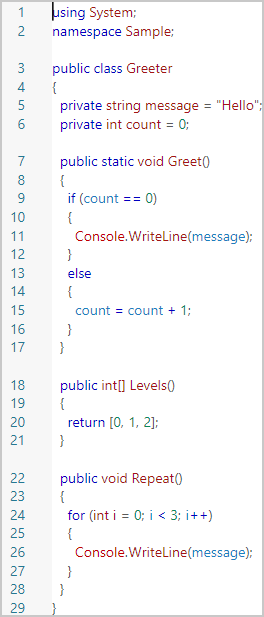
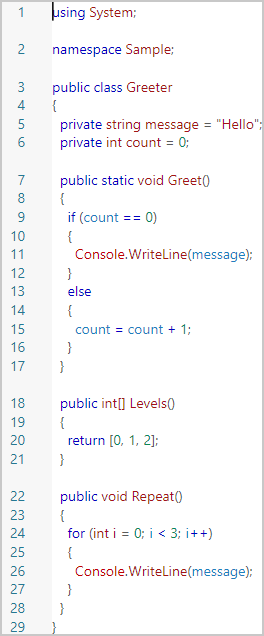
feat(csharp): put a blank line under the using block
The last place a C# file was short of the convention: the imports ran
straight into the namespace declaration. The only two positions a list
could ask for were inside it, and this gap is after the last child.

Now that the position exists, the imports take it. The gap hangs off the
when-filled block around the imports rather than off the file, so a file
without directives opens with no blank row - which is the half that would
break if it hung off the file instead. The File template also lost the
line break it used to carry after the imports: the list writes that break
now, and two writers would mean two newlines.

The test asserts both halves exactly, and asserts the drawn document
against the generated text, because the notation and the generator
declare this gap separately and drifting apart is the failure that would
not show up in either one alone.

diff --git a/tests/Projectional.Core.Tests/CSharpLanguageTests.cs b/tests/Projectional.Core.Tests/CSharpLanguageTests.cs
@@ -735,6 +735,7 @@ public sealed class CSharpLanguageTests
             """
             using System;
             using System.Collections.Generic;
+
             namespace Sample
             {
               public class Greeter
@@ -746,6 +747,78 @@ public sealed class CSharpLanguageTests
 
         Assert.Equal(Expected, LayoutSnapshot.Render(model, CSharpNotations.CreateNotations(CSharpLanguage.Concepts), width: 120));
         Assert.Equal(Expected + "\n", new Generator().Generate(model.Roots[0], CSharpTextGenerators.Generator).Text);
+    }
+
+    [Fact]
+    public void ABlankLineSeparatesTheImportsFromTheNamespace()
+    {
+        // The one gap a group boundary cannot describe: the blank line separates the last directive from the namespace
+        // declaration, not two directives from each other. It belongs to the when-filled block around the imports, so
+        // a file without them must not open with a blank row - which is the half that would break if the gap hung off
+        // the file instead of off the list. A class is in the model so nothing here is drawn as a placeholder, which
+        // keeps the comparison against the generated text exact.
+        const string Imported =
+            """
+            using System;
+            using System.Text;
+
+            namespace Sample;
+
+            public class Greeter
+            {
+              private string message;
+            }
+            """;
+
+        const string Bare =
+            """
+            namespace Sample;
+
+            public class Greeter
+            {
+              private string message;
+            }
+            """;
+
+        Assert.Equal(Imported, Document(withImports: true));
+        Assert.Equal(Bare, Document(withImports: false));
+
+        static string Document(bool withImports)
+        {
+            var model = new Project(CSharpLanguage.Concepts).NewModel("imports");
+            var file = model.NewNode(CSharpConceptKeys.File);
+
+            if (withImports)
+            {
+                foreach (var name in new[] { "System", "System.Text" })
+                {
+                    model.NewChild(file, CSharpConceptKeys.UsingsSlot, CSharpConceptKeys.Using)
+                        .Set(CSharpLanguage.NameSlot, name);
+                }
+            }
+
+            var ns = model.NewChild(file, CSharpConceptKeys.NamespaceSlot, CSharpConceptKeys.Namespace);
+            var cls = model.NewChild(ns, CSharpConceptKeys.ClassesSlot, CSharpConceptKeys.Class);
+            var field = model.NewChild(cls, CSharpConceptKeys.MembersSlot, CSharpConceptKeys.Field);
+            var fieldType = model.NewChild(field, "type", CSharpConceptKeys.TypeReference);
+
+            ns.Set(CSharpLanguage.NameSlot, "Sample");
+            ns.Set(CSharpLanguage.IsFileScopedSlot, true);
+            cls.Set(CSharpLanguage.VisibilitySlot, CSharpVisibility.Public);
+            cls.Set(CSharpLanguage.NameSlot, "Greeter");
+            field.Set(CSharpLanguage.VisibilitySlot, CSharpVisibility.Private);
+            field.Set(CSharpLanguage.NameSlot, "message");
+            fieldType.Set(CSharpLanguage.NameSlot, "string");
+
+            var drawn = LayoutSnapshot.Render(model, CSharpNotations.CreateNotations(CSharpLanguage.Concepts), width: 120);
+            var generated = new Generator().Generate(model.Roots[0], CSharpTextGenerators.Generator).Text;
+
+            // The notation and the generator declare the gap separately, so agreeing here is what keeps the two from
+            // drifting into a file that draws one blank line and writes another.
+            Assert.Equal(drawn + "\n", generated);
+
+            return drawn;
+        }
     }
 
     [Fact]

diff --git a/src/Languages/Projectional.CSharp/Notation/CSharpNotations.cs b/src/Languages/Projectional.CSharp/Notation/CSharpNotations.cs
@@ -34,12 +34,21 @@ public static class CSharpNotations
         // A file is its imports, each on its own row, then the namespace. The imports are wrapped in a when-filled
         // block so a file without them draws nothing where they would be - an empty row would push the namespace
         // down for no reason.
+        //
+        // The imports take a trailing gap, which is the one position a group boundary cannot describe: the blank line
+        // the convention wants separates the last directive from the namespace declaration rather than two of the
+        // directives from each other. It sits inside the when-filled block, so a file with no imports gets no blank
+        // row in front of its namespace.
         notations.Add(
             CSharpConceptKeys.File,
             ed => ed.Sequence(
                 ed.WhenFilledBlock(
                     CSharpConceptKeys.UsingsSlot,
-                    ed.Children(CSharpConceptKeys.UsingsSlot, string.Empty, stacked: true)),
+                    ed.Children(
+                        CSharpConceptKeys.UsingsSlot,
+                        string.Empty,
+                        stacked: true,
+                        gaps: ListGap.AfterLast)),
                 ed.Line(ed.ChildInline(CSharpConceptKeys.NamespaceSlot, "<no namespace>"))));
 
         notations.Add(CSharpConceptKeys.Using, ed => ed.Line(

diff --git a/src/Languages/Projectional.CSharp/Generation/CSharpTextGenerators.cs b/src/Languages/Projectional.CSharp/Generation/CSharpTextGenerators.cs
@@ -46,11 +46,14 @@ public static class CSharpTextGenerators
 
     private static TemplateRegistry Templates() => TemplateRegistry.Empty
         .Add(CSharpConceptKeys.File, TextTemplate.Of(
+            // The trailing break used to be written here; the list's own gap writes it now, so the two cannot
+            // disagree about whether a file's imports are followed by one newline or two.
             new WhenFilledPart(
                 CSharpConceptKeys.UsingsSlot,
-                TextTemplate.Of(
-                    new ChildrenPart(CSharpConceptKeys.UsingsSlot, TextTemplate.Of(LineBreakPart.Instance)),
-                    LineBreakPart.Instance)),
+                TextTemplate.Of(new ChildrenPart(
+                    CSharpConceptKeys.UsingsSlot,
+                    TextTemplate.Of(LineBreakPart.Instance),
+                    ListGap.AfterLast))),
             new ChildPart(CSharpConceptKeys.NamespaceSlot),
             LineBreakPart.Instance))
 

diff --git a/docs/implemented.md b/docs/implemented.md
@@ -257,9 +257,10 @@ engine produce diagnostics in volume.
 | **`as` and `null`, the two remaining operand forms** - `operand as Type` asks `is`'s question and hands the value back, so it is one word over the same two children a cast has; its type is the type it names, the same claim a cast makes, because a language without nullability cannot say "this type or nothing". `null` is the one literal with no slot at all - it is a word and nothing else - and deliberately no type rule: in C# `null` takes the type of whatever it is assigned to, so naming one would be wrong wherever the target was something else. The type system therefore says nothing about it, which is the honest answer | `CSharpConceptKeys.As`/`.NullLiteral`, `CSharpLanguage`, `Notation/CSharpNotations`, `Generation/CSharpTextGenerators`, `Types/CSharpTypes` | `CSharpLanguageTests.AnAsAndANullDrawAndGenerateTheSameShape` (both drawn and generated character for character, with `as` claiming `string` and `null` claiming nothing) |
 | **An enum is a type declaration whose values are a closed set of names** - `public enum Colour { Red, Green, Blue }`. It is a `TypeDeclaration` like a class and an interface, so a namespace holds it in the same list. Its values are a concept of their own, not fields: an enum value has no type and no initializer, only a name. The values are drawn as a *collection* rather than a children list, because the comma between them is punctuation that belongs to the list and not to the value - and the collection cell draws in a row, so the generator joins them with a comma and a space to match it. No type rule is claimed: a `TypeReference` naming an enum stays unknown, the same honesty the language applies to every user-declared type | `CSharpConceptKeys.Enum`/`.EnumMember`, `CSharpLanguage`, `Notation/CSharpNotations`, `Generation/CSharpTextGenerators` | `CSharpLanguageTests.AnEnumDrawsAndGeneratesTheSameShape` (three values, drawn and generated character for character) |
 | **A style checker for the base language** - three rules stated as `IConstraint`s beside the four correctness rules, and told apart by severity: a correctness rule may `Error`, a style rule warns because the order of two imports changes nothing. **Imports** must be `System` first and then ordinal by name (`csharp.using.order`); **members** must be fields, then constructors, then properties and indexers, then methods (`csharp.member.order`); **an interface's name** must start with `I` (`csharp.interface.name`). The one thing the checker cannot state is the blank line the user asked for, and the document says so rather than faking it: "a blank line after a block of fields" is whitespace, a model holds none, and the projection draws it. So the rule states the arrangement that makes the blank line land in the right place - the fields are contiguous - and the projection half that draws it is the row below | `Checks/CSharpConstraints.cs` (`.UsingOrderCode`/`.MemberOrderCode`/`.InterfaceNameCode` and the three constraints) | `CSharpLanguageTests.TheStyleRulesReportTheConventionsTheyState` (an unsorted import list, a method before a field and an interface without its `I` each report their code) and `AStyleRuleIsSilentWhenTheConventionIsMet` (the same three, in order, report nothing) |
-| **A blank line between member groups, drawn and generated** - the projection half of the style convention above. A list can now draw its children in groups: a boundary is a group boundary unless *both* neighbours are in a tight set the language declares, so C#'s set holds `Field` alone and the effect is "a blank line between members, except inside a block of fields" - exactly the convention the ordering rule keeps the fields contiguous for. Two details were what made it more than a flag. The blank line is a **bare newline**, not a doubled separator, because `LineBreakPart` indents eagerly and a second break would leave the whitespace-only row the earlier "empty member list" fix removed. And the projection asks for a **gap, not a cell**: a spacer cell is a leaf and therefore a caret target, so the caret would stop on a row nobody drew; `ChildCell.BlankLineBefore` names the positions instead and the layouter advances by one line height. `ChildGroups` owns the "where does a group end" rule so the drawing and the generated text cannot disagree about it | `Projectional.Language/Generation/ChildGroups.cs`, `ChildrenPart.BlankLineBetweenGroups`, `ChildNotationCell.BlankLineBetweenGroups`, `NotationEditor.Children`, `ChildCell.BlankLineBefore`, `CellLayouter.ArrangeVertical`, `CSharpMemberGroups` | `CSharpLanguageTests.ABlankLineSeparatesAMemberKindFromTheNext` (two fields then two methods: fields tight, a blank line at each boundary, drawn and generated character for character); the regenerated `docs/images/language-csharp.png` shows it in the shipping control |
+| **A blank line between member groups, drawn and generated** - the projection half of the style convention above. A list can now draw its children in groups: a boundary is a group boundary unless *both* neighbours are in a tight set the language declares, so C#'s set holds `Field` alone and the effect is "a blank line between members, except inside a block of fields" - exactly the convention the ordering rule keeps the fields contiguous for. Two details were what made it more than a flag. The blank line is a **bare newline**, not a doubled separator, because `LineBreakPart` indents eagerly and a second break would leave the whitespace-only row the earlier "empty member list" fix removed. And the projection asks for a **gap, not a cell**: a spacer cell is a leaf and therefore a caret target, so the caret would stop on a row nobody drew; `ChildCell.BlankLineBefore` names the positions instead and the layouter advances by one line height. `ChildGroups` owns the "where does a group end" rule so the drawing and the generated text cannot disagree about it | `Projectional.Language/Generation/ChildGroups.cs`, `ChildrenPart.Gaps`, `ChildNotationCell.Gaps`, `NotationEditor.Children`, `ChildCell.BlankLineBefore`, `CellLayouter.ArrangeVertical`, `CSharpMemberGroups` | `CSharpLanguageTests.ABlankLineSeparatesAMemberKindFromTheNext` (two fields then two methods: fields tight, a blank line at each boundary, drawn and generated character for character); the regenerated `docs/images/language-csharp.png` shows it in the shipping control |
 shows it in the shipping control |
-| **A blank line between the types of a namespace, and one under a file-scoped header** - the same group mechanism applied to the type list, plus the one gap a group boundary cannot describe. A namespace's `ClassesSlot` carries the *empty* tight set, so every type is separated from the next: two classes as much as a class from an interface, because members of one kind belong together and types of any kind never do. That is why the two lists carry different sets instead of one shared "same concept is tight" rule, which would glue two methods together as well. The file-scoped form then needed something new: its first type sits directly under the header with no neighbour above it, and `BlankLineBetweenGroups` separates two *neighbours*. So `BlankLineBeforeFirst` states "this list opens with a gap" on both sides, the projection puts position `0` into the same index set and the layouter needed no second rule - the gap is still space, never a cell, so the caret has nowhere new to stand. Only the file-scoped branch sets it, which the notation can do because the same concept's `ClassesSlot` appears in two conditional blocks | `ChildrenPart.BlankLineBeforeFirst`, `ChildNotationCell.BlankLineBeforeFirst`, `NotationEditor.Children`, `EditorTreeBuilder.GroupStarts`, `Generator.EmitEntries`, `Notation/CSharpNotations.cs`, `Generation/CSharpTextGenerators.cs` | `CSharpLanguageTests.ABlankLineSeparatesTwoTypesInANamespace` (two classes, drawn), `ABlankLineSeparatesTwoTypesUnderAFileScopedNamespace` (the header gap and the type gap, drawn and generated character for character), `ANamespaceIsDrawnInTheFormTheModelChose` (the block form still has no gap under its brace) |
+| **A blank line between the types of a namespace, and one under a file-scoped header** - the same group mechanism applied to the type list, plus the one gap a group boundary cannot describe. A namespace's `ClassesSlot` carries the *empty* tight set, so every type is separated from the next: two classes as much as a class from an interface, because members of one kind belong together and types of any kind never do. That is why the two lists carry different sets instead of one shared "same concept is tight" rule, which would glue two methods together as well. The file-scoped form then needed something new: its first type sits directly under the header with no neighbour above it, and the group position separates two *neighbours*. So `ListGap.BeforeFirst` states "this list opens with a gap" on both sides, the projection puts position `0` into the same index set and the layouter needed no second rule - the gap is still space, never a cell, so the caret has nowhere new to stand. Only the file-scoped branch sets it, which the notation can do because the same concept's `ClassesSlot` appears in two conditional blocks | `ListGap.BeforeFirst`, `NotationEditor.Children`, `EditorTreeBuilder.GapPositions`, `Generator.EmitEntries`, `Notation/CSharpNotations.cs`, `Generation/CSharpTextGenerators.cs` | `CSharpLanguageTests.ABlankLineSeparatesTwoTypesInANamespace` (two classes, drawn), `ABlankLineSeparatesTwoTypesUnderAFileScopedNamespace` (the header gap and the type gap, drawn and generated character for character), `ANamespaceIsDrawnInTheFormTheModelChose` (the block form still has no gap under its brace) |
+| **A blank line under the `using` block, and one value naming all three gap positions** - the last place a C# file was short of the convention: the imports ran straight into the namespace declaration, because the only two positions a list could ask for were *inside* it and this gap is after its last child. Three separate flags were about to become a constructor, so they became one `ListGap` value instead - the positions are independent ("a list can open with a gap and put none between its children"), so they are flags rather than a choice, and "where does this list breathe" is one question again. The projection needed no second mechanism: a gap always sits *above* a position, so the index set is a range - `0` is the gap above the first child and `Count`, one past the end, is the row below the last - and the layouter asks about each child and then once about the position after the end. The gap hangs off the `WhenFilledBlock` around the imports rather than off the file, so a file without directives opens with no blank row; the generator's `File` template lost the `LineBreakPart` it used to carry there, because the list writes that break now and two writers would mean two newlines | `Projectional.Language/Generation/ListGap.cs`, `ChildrenPart.Gaps`, `ChildNotationCell.Gaps`, `NotationEditor.Children`, `EditorTreeBuilder.GapPositions`, `CellLayouter.ArrangeVertical`, `Generator.EmitEntries`, `Notation/CSharpNotations.cs`, `Generation/CSharpTextGenerators.cs` | `CSharpLanguageTests.ABlankLineSeparatesTheImportsFromTheNamespace` (with two directives the gap is there, and with none the file opens with no blank row - both compared exactly, and drawn against generated); the refactor alone moved no expected string, so the whole suite stayed green until the C# templates asked for the new position |
 
 ## M6 - Framework maturity (started)
 

diff --git a/docs/architecture/csharp.md b/docs/architecture/csharp.md
@@ -131,8 +131,8 @@ the projection is what puts the line where the block ends. That split is the hon
 claimed to see a blank line would be reading the projection's output, not the model.
 
 **Delivered: the projection half.** The blank line itself is a projection fact, and it now has a
-declaration of its own rather than an engine convention: `ChildNotationCell.BlankLineBetweenGroups` draws
-it and `ChildrenPart.BlankLineBetweenGroups` writes it, and both read `ChildGroups` for *where* a group
+declaration of its own rather than an engine convention: `ChildNotationCell.Gaps` draws
+it and `ChildrenPart.Gaps` writes it, and both read `ChildGroups` for *where* a group
 ends so the drawing and the generated text cannot disagree. Three details were what made it more than a
 flag:
 
@@ -149,31 +149,33 @@ flag:
   instead and `CellLayouter` advances the cursor by one line height at each, which keeps the caret on the
   members and the blank row out of the tree.
 
-**Where the lists differ.** The rule is the same everywhere; the *set* is not, and that difference is the
-convention rather than an accident:
+**Where the lists differ.** The rule is the same everywhere; the *value* is not, and that difference is the
+convention rather than an accident. `ListGap` names the three positions a list can breathe at, and a list
+takes the flags it wants:
 
-| List | Between groups | Before the first child |
+| List | Gaps | Why |
 | --- | --- | --- |
-| A class's members | tight set `{Field}` - a run of fields stays together, everything else is separated | no gap, because the brace above already separates it |
-| A namespace's types | empty set - every type is separated from the next, two classes as much as a class from an interface | no gap in the block form, for the same reason as the brace; a gap in the file-scoped form, where the header is the row above |
+| A class's members | `BetweenGroups`, tight set `{Field}` | a run of fields stays together, every other member is separated |
+| A namespace's types | `BetweenGroups`, empty tight set | every type is separated from the next, two classes as much as a class from an interface |
+| A file's imports | `AfterLast` | the blank line separates the last directive from the namespace declaration, not two directives from each other |
 
-Members of one kind belong together; types of any kind never do. That is why the two lists carry different
-sets instead of one shared "same concept is tight" rule - that rule would glue two methods together as
-well.
+Members of one kind belong together; types of any kind never do. That is why the two *group* lists carry
+different sets instead of one shared "same concept is tight" rule - that rule would glue two methods
+together as well.
 
-The file-scoped form is the one place a group boundary cannot describe the gap, because a boundary
-separates two *neighbours* and there is no neighbour above the first type - only the row the notation put
-it under. So `ChildrenPart.BlankLineBeforeFirst` and `ChildNotationCell.BlankLineBeforeFirst` state it
-directly, and the projection puts position `0` in the same index set the boundaries use. Only the
-file-scoped branch sets it: the same concept's `ClassesSlot` appears in two conditional blocks, so the two
-forms can declare different gaps for the same list.
+Two of the three positions are ones a group boundary structurally cannot describe, because a boundary
+separates two *neighbours*: there is nothing above the first child, and nothing below the last. So
+`ListGap.BeforeFirst` and `ListGap.AfterLast` say it directly, and the projection keeps one mechanism -
+a gap always sits *above* a position, so the index set is a range and position `Count` means the row
+after the last child. A class's members take no gap before the first because the brace above already
+separates it; a namespace's types take one in the file-scoped form only, where the header is the row
+above. That asymmetry is expressible because the same concept's `ClassesSlot` appears in two conditional
+blocks, so the two forms declare different gaps for one list.
 
-**Still missing: the gap under the `using` block.** A file with directives wants a blank line between the
-last one and the namespace declaration, and no current knob says "this list is followed by a gap" -
-`BlankLineBetweenGroups` and `BlankLineBeforeFirst` are the two positions *inside* a list, and this one is
-after its last child. It needs a third position (`BlankLineAfterLast`, or one flags enum replacing all
-three) before the `using` block's list can ask for it. Until then the generated file is correct C# and one
-blank line short of the convention.
+The imports' trailing gap lives *inside* the `WhenFilledBlock` that wraps them, which is what keeps a
+file without directives from opening with a blank row. Its position is also why the generator's `File`
+template lost the `LineBreakPart` it used to carry after the imports: the list writes that break now, so
+the notation and the template cannot disagree about one newline or two.
 
 The rules a style checker cannot state in a model at all - line length, brace placement, trailing
 whitespace, `var` versus an explicit type - are projection choices here, not model facts, and belong to

diff --git a/docs/architecture/semantics/generation.md b/docs/architecture/semantics/generation.md
@@ -88,21 +88,22 @@ let a click on a generated line move the caret to the node that wrote it.
   stands: nothing at all at a single-child slot, and a stray comma in a list - a syntax error dressed up as a feature.
   A region written into a buffer learns where the buffer ended up, so "go to source" still points at the right
   character.
-- **A separator can depend on the pair, not just the list.** `ChildrenPart.BlankLineBetweenGroups` puts a blank line
-  between *groups*: a boundary is a group boundary unless both neighbours are in the part's `TightConcepts` set, and
-  `ChildGroups.IsBoundary` is the one rule, so the drawing and the generated text cannot disagree about where a group
-  ends. The set is concept keys rather than "same concept" because C# wants fields tight and every other member to
-  start its own group - "same concept" would keep two methods tight as well. The blank line is a **bare newline**
+- **A separator can depend on the pair, not just the list.** `ChildrenPart.Gaps` with `ListGap.BetweenGroups` puts a
+  blank line between *groups*: a boundary is a group boundary unless both neighbours are in the part's `TightConcepts`
+  set, and `ChildGroups.IsBoundary` is the one rule, so the drawing and the generated text cannot disagree about where
+  a group ends. The set is concept keys rather than "same concept" because C# wants fields tight and every other member
+  to start its own group - "same concept" would keep two methods tight as well. The blank line is a **bare newline**
   written before the ordinary separator, never a doubled separator: a separator indents the line it starts, so two of
   them would leave the next row's indentation standing as trailing whitespace. That is the same defect the empty
   member block fix removed, and the reason the gap is written by the engine rather than spelled as a part.
-- **The gap has three positions and the engine knows two of them.** `BlankLineBetweenGroups` covers a boundary
-  between two neighbours, `BlankLineBeforeFirst` covers the list that the notation puts under a header of its own -
-  the types below a file-scoped namespace declaration - because a boundary separates two children and there is no
-  neighbour above the first one. Both are written the same way (a bare newline before the ordinary separator) and both
-  end up in the projection's one index set, as the positions a blank line goes above; the first child is simply
-  position `0`. The position *after* the last child has no flag yet, which is why a `using` block still runs into its
-  namespace declaration.
+- **The gap has three positions, and one value names them.** `ListGap.BetweenGroups` covers a boundary between
+  two neighbours, `BeforeFirst` covers the list that the notation puts under a header of its own - the types below a
+  file-scoped namespace declaration - and `AfterLast` covers the list that continues into something else, the imports
+  above a namespace. All three are written the same way (a bare newline before the ordinary separator) and all three
+  end up in the projection's one index set, as the positions a blank line goes above: the first child is position `0`
+  and the row after the last child is position `Count`, which no child occupies. `AfterLast` is emitted only when the
+  list wrote something, because an entry the generator ignores is not a row and must not leave a blank line behind.
+  The three were separate flags until the third arrived; they are independent, so they are flags and not a choice.
 - **The decision to emit nothing is declarable.** `TextGen.Ignore` is a mapping body beside `TextGen.Template` (both
   conform to the abstract `TextGen.Body` the mapping's `template` slot is declared over), and it lowers to the empty
   template. A separate concept rather than an empty template node because an empty box reads as unfinished work: an

diff --git a/docs/architecture/projection.md b/docs/architecture/projection.md
@@ -125,17 +125,18 @@ the tree, in abstract **layout units** rather than pixels.
   written into the separator notation itself (`Punct(",")` beside `Line(Space, Keyword("and"))`).
   There is no trailing gap after the last item. A gap is real cells, not padding applied by
   the layout, so a wide gap is several `SpaceCell`s and every one of them is a caret stop.
-- **A stacked child slot can leave a blank row between groups.** `ChildNotationCell.BlankLineBetweenGroups`
-  asks for one, and `ChildCell.BlankLineBefore` carries the positions it applies to: the stack advances the
+- **A stacked child slot can leave a blank row between groups.** `ChildNotationCell.Gaps` asks for one, and
+  `ChildCell.BlankLineBefore` carries the positions it applies to: the stack advances the
   cursor by one line height before each of them. The gap is *space*, not a cell, because a childless cell is a
   leaf and every leaf is a caret target - a spacer would be a caret stop on a row nobody drew. The positions
   come from `ChildGroups.IsBoundary`, the same rule the generator applies, so the drawing and the generated
-  text put the blank line in the same place. A group boundary is vertical space, so only a stacked slot can
-  draw one; the flag on a single-line slot does nothing. `BlankLineBeforeFirst` asks for the gap above the
-  *first* child, which no boundary can describe because there is no neighbour above it - a list the notation
-  puts under a header of its own, like the types below a file-scoped namespace declaration. It is the same
-  index set and the same line height; position `0` is simply a member of it, which is why `CellLayouter`
-  needed no second rule and the caret still has nowhere new to stand.
+  text put the blank line in the same place. A gap is vertical space, so only a stacked slot can
+  draw one; the value on a single-line slot does nothing. `ListGap` names the three positions a list can
+  breathe at, and they are all one mechanism: a gap always sits *above* a position, so the index set is a
+  range - `0` is the gap above the first child, which no boundary can describe because there is no
+  neighbour above it, and `Count` is the row after the last child, which no child occupies and which is
+  how a list asks for a trailing empty line. The layouter asks about each child and then once about the
+  position after the end, so the caret still has nowhere new to stand.
 - **Where a list may stand is a type, not a flag.** `CollectionNotationCell` is a block cell and
   starts its own line; `InlineCollectionNotationCell` stays inside the line it is drawn on, with the
   same `Separator`/`Spacing`/`EmptyText` and the same runtime `CollectionCell` (which arranges its
